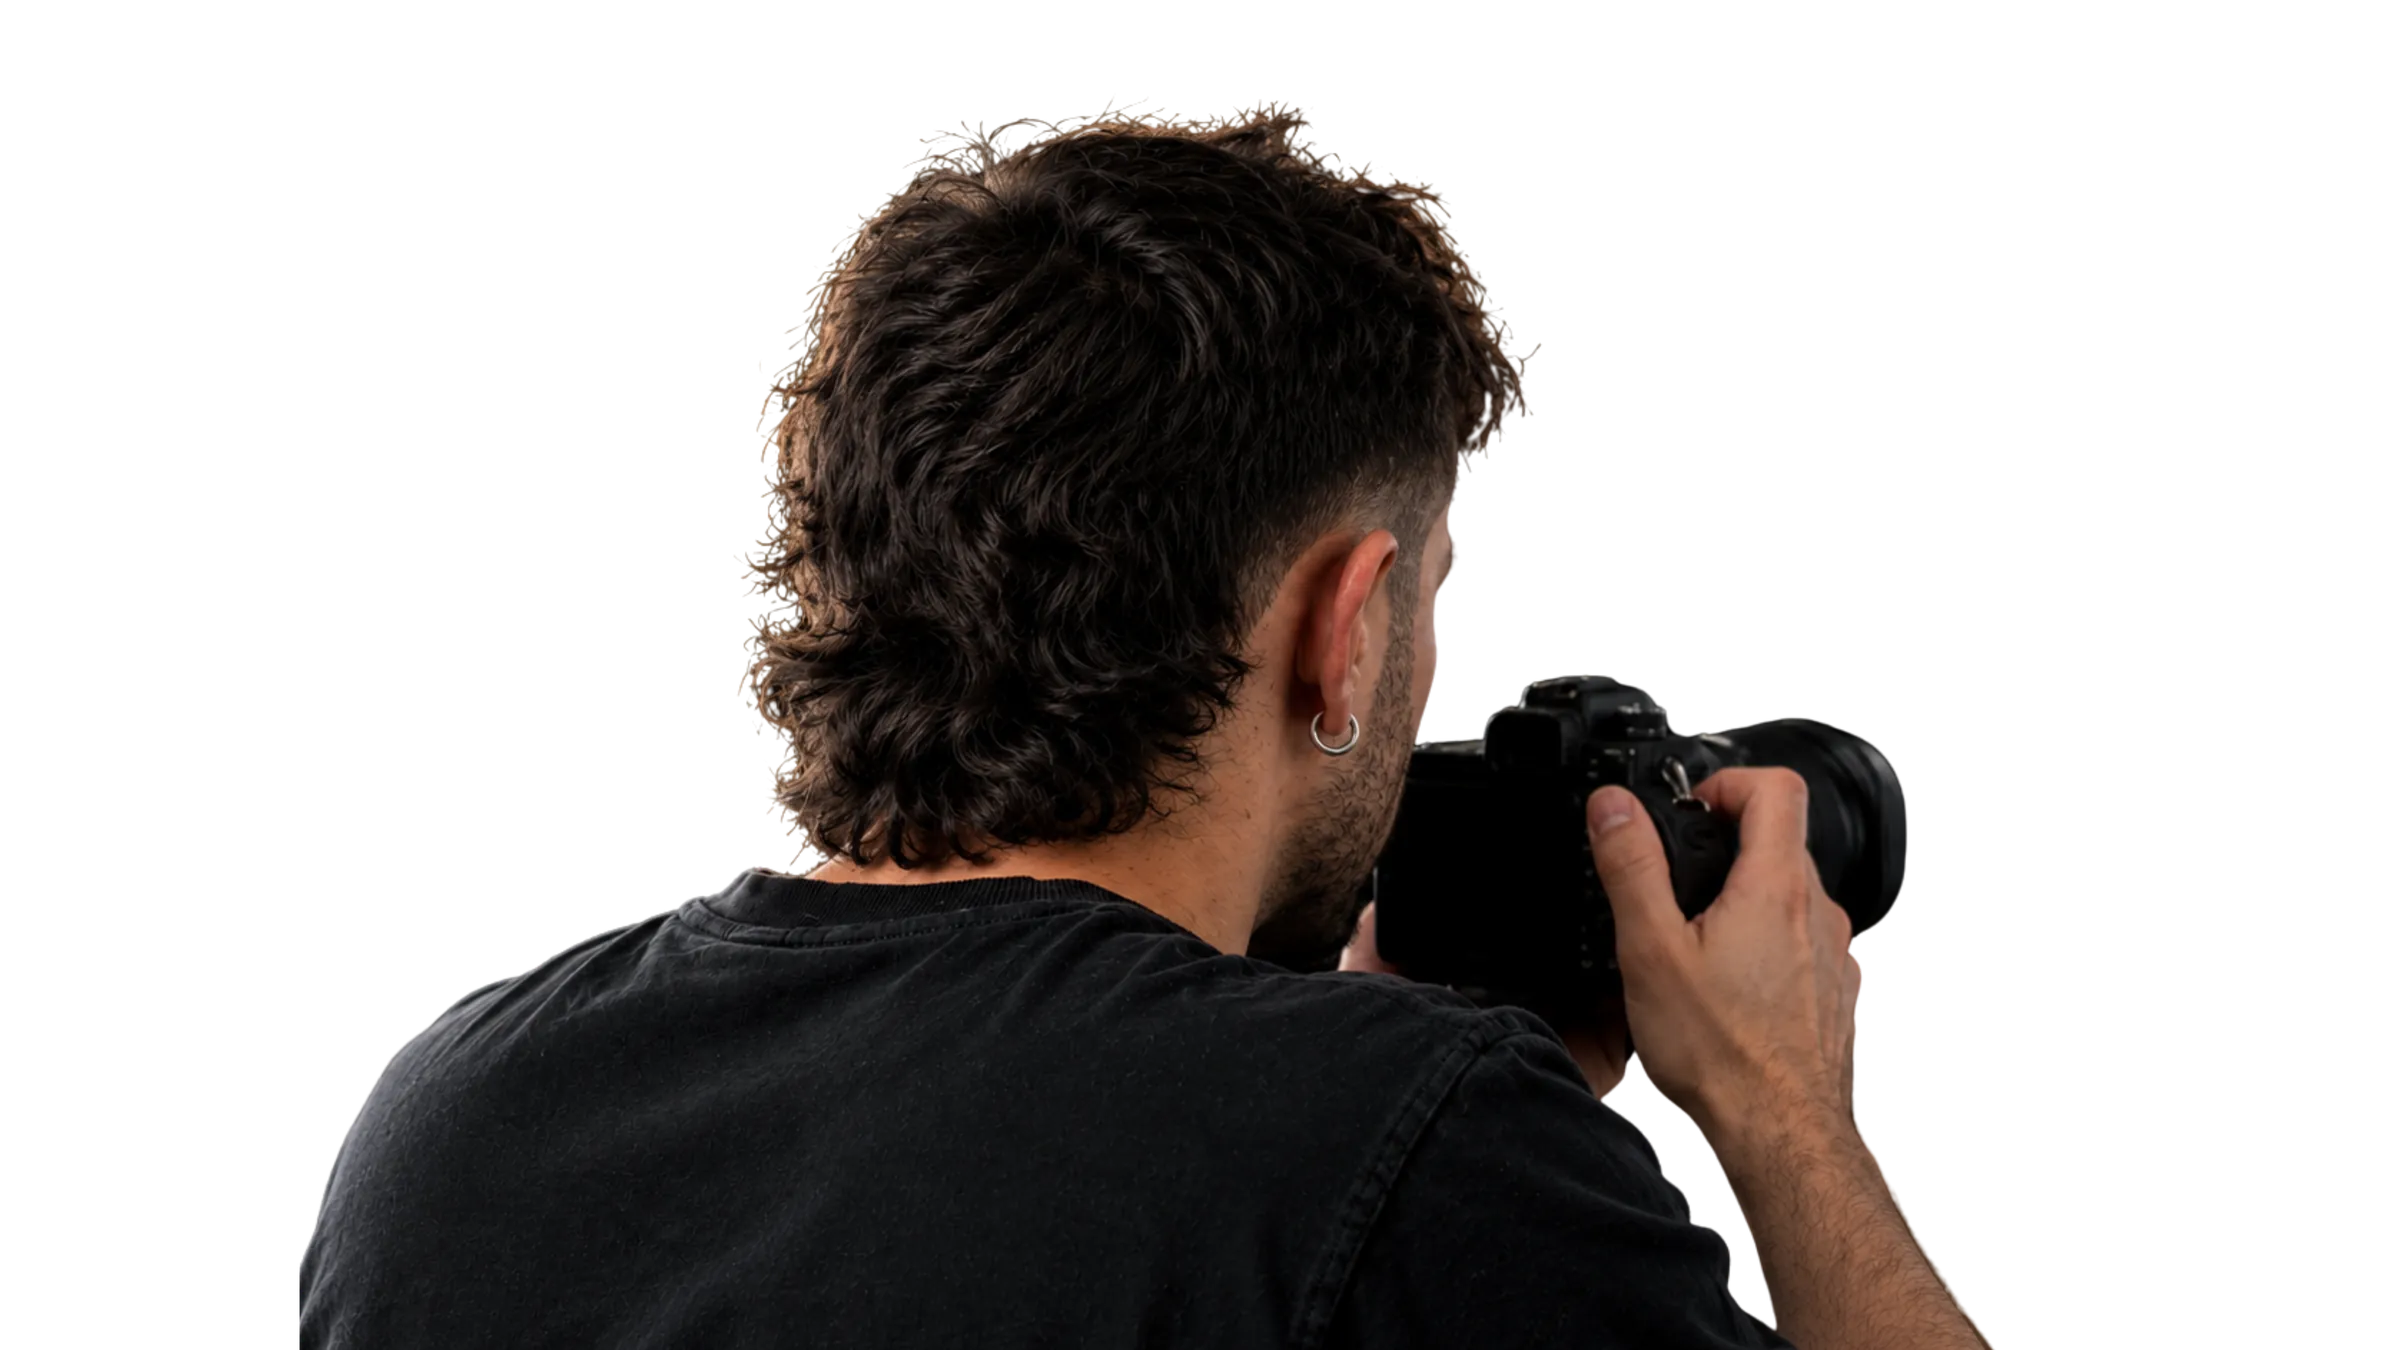
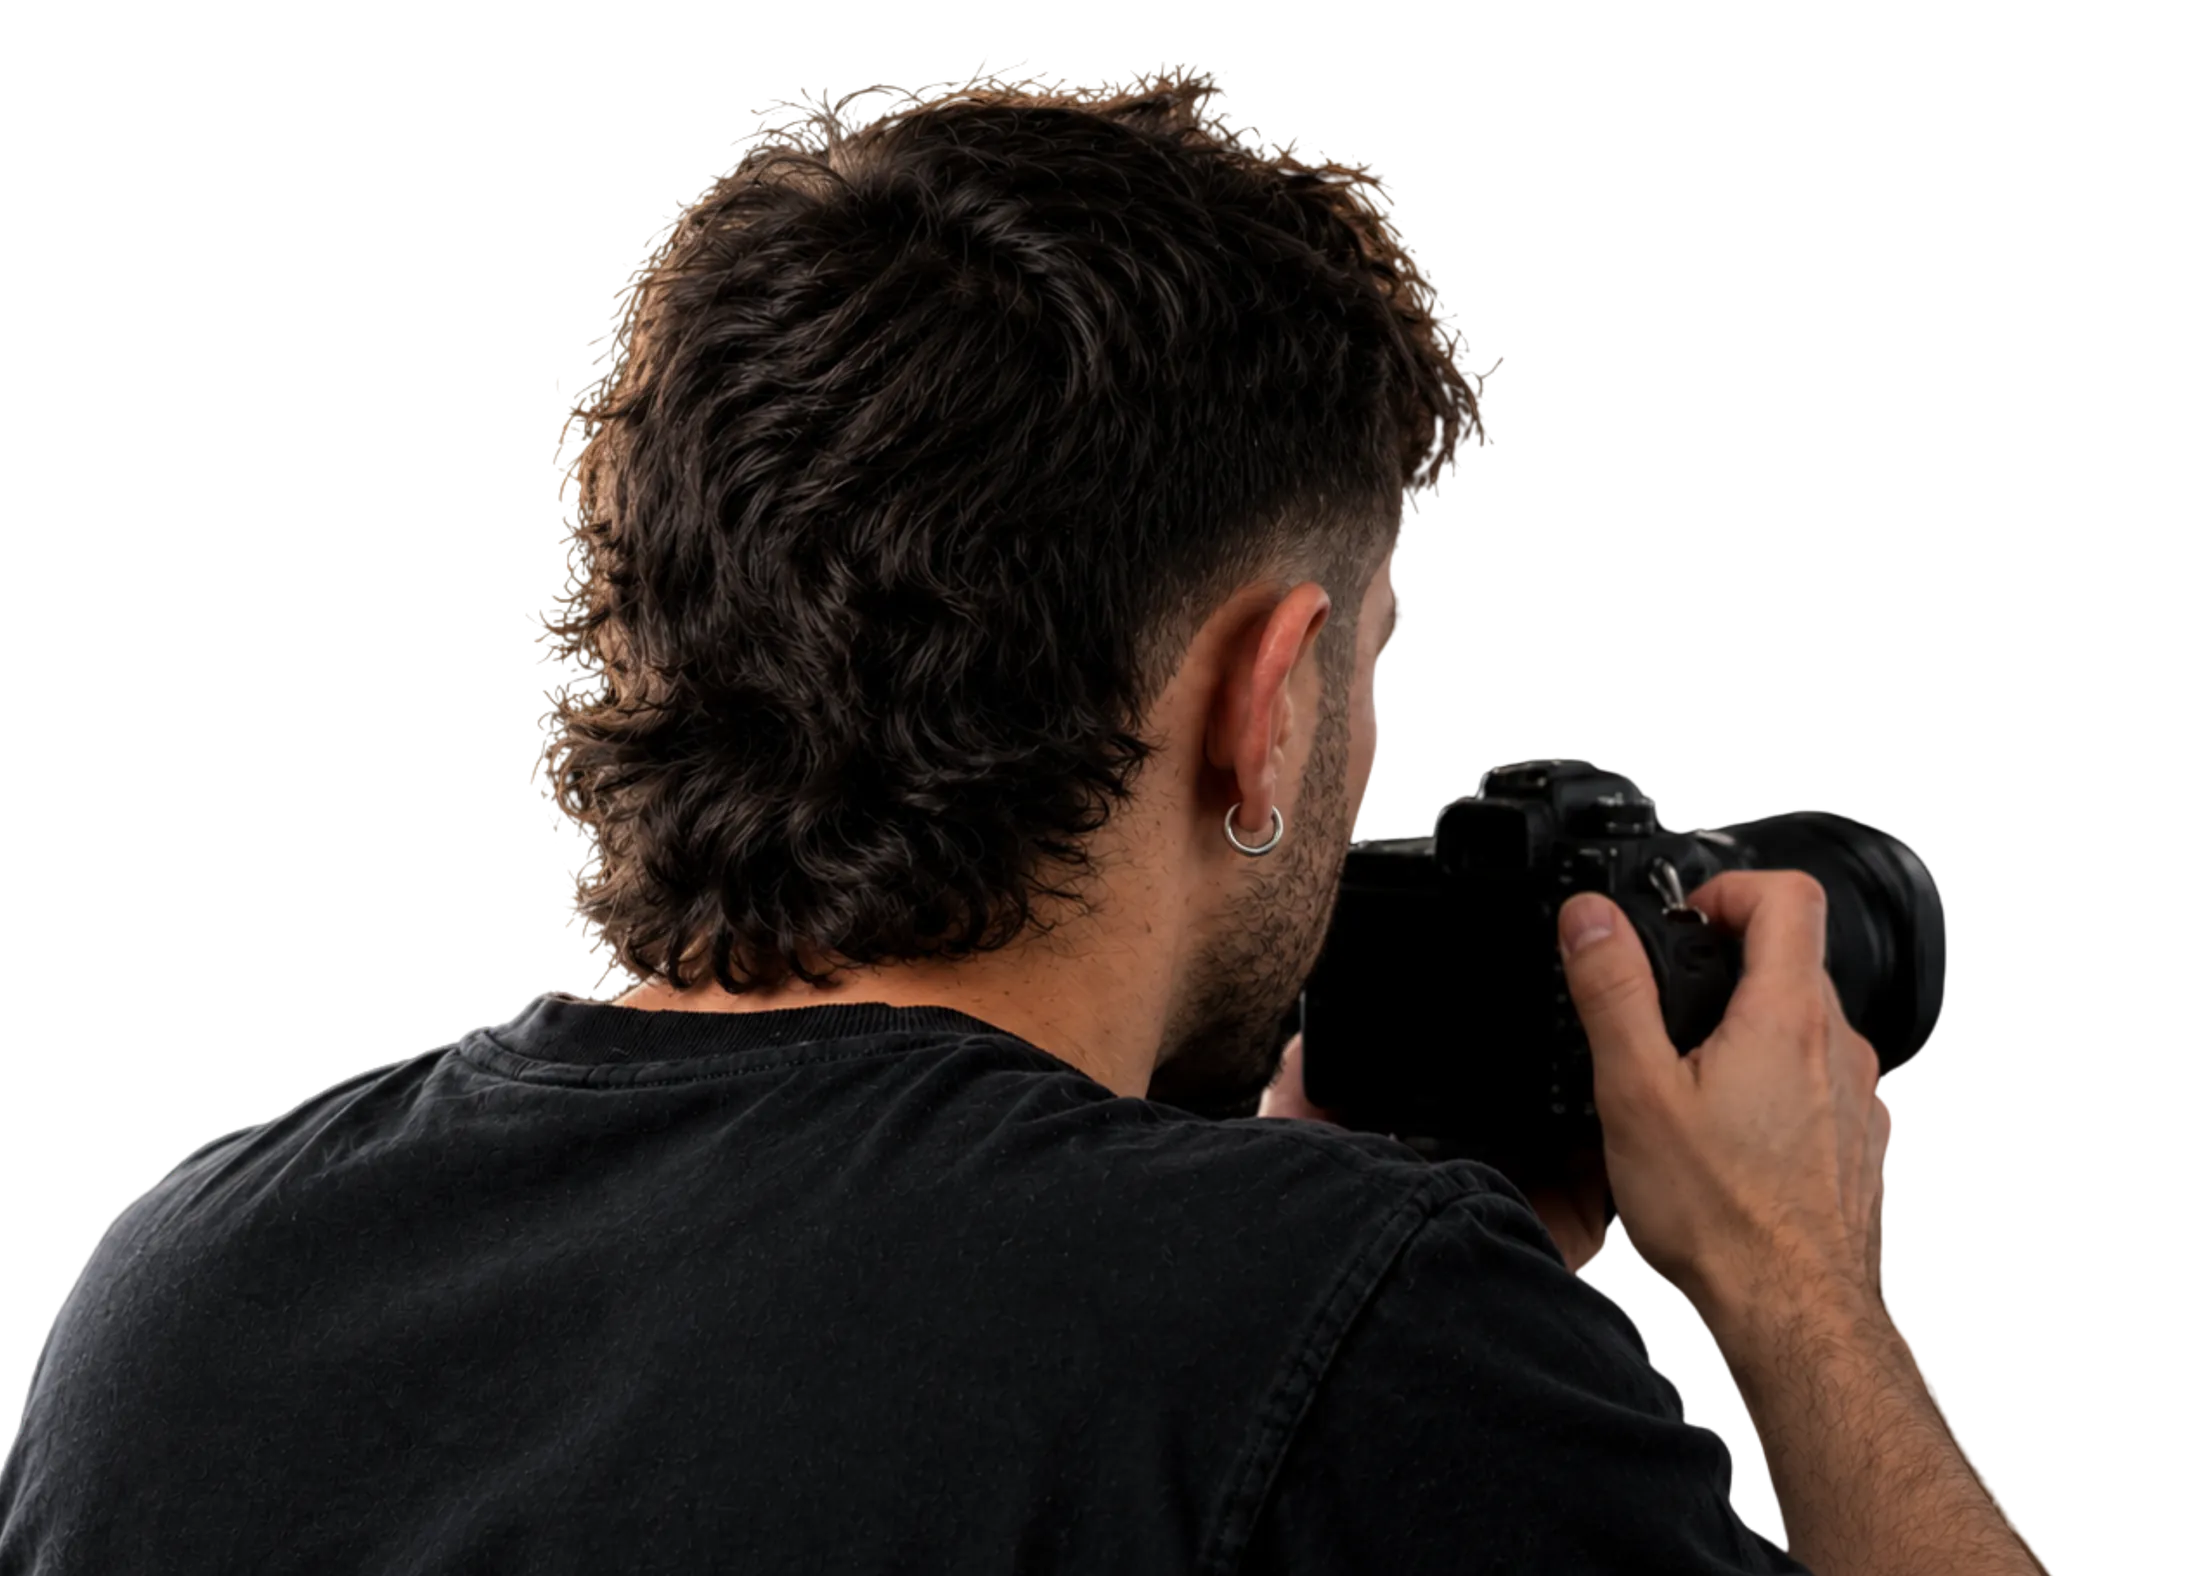
A figura do hero maior: enquadramento mais justo e caixa de 150%
Duas mudancas somadas. Os dois avatares foram reexportados cortados na
UNIAO das duas caixas de recorte, nao cada um na propria: cortar separado
deixaria as poses desalinhadas e a troca entre elas daria pulo. Com o
canvas justo some a faixa transparente que sobrava e o Allan passa a
ocupar o quadro inteiro.

Depois a caixa cresceu de 124% para 150% da altura da hero. Medi 124, 150,
175 e 200: a partir de 175 a cabeca sai pelo topo e o rosto encosta na
borda direita. As duas poses crescem juntas, pela mesma razao do
enquadramento comum.

No celular a conta e outra: descendo junto com o desktop a figura saia
pela borda de baixo e so o alto da cabeca aparecia, entao ali ela fica
mais alta.

Changed region(s): [[0.0, 0.0311, 0.9582, 1.0]]

diff --git a/index.html b/index.html
@@ -577,7 +577,7 @@
   /* o observador: ele e quem estava olhando o estudio ate agora */
   #obsv { position: absolute; inset: 0; z-index: 2; pointer-events: none;
     opacity: 0; will-change: transform, opacity; }
-  .obs-q { position: absolute; left: 0; right: 0; bottom: -34%; height: 124%;
+  .obs-q { position: absolute; left: 0; right: 0; bottom: -46%; height: 150%;
     opacity: 0; will-change: opacity;
     background-repeat: no-repeat; background-position: bottom center; background-size: contain;
     -webkit-mask-repeat: no-repeat; mask-repeat: no-repeat;
@@ -744,7 +744,9 @@
   .gal-item:hover img, .gal-item:focus-visible img { transform: scale(1.07); }
 
   @media (max-width: 899px) {
-    .obs-q { bottom: -6%; height: 72%; }
+    /* no celular a figura fica mais alta: descendo junto com o desktop
+       ela saia pela borda de baixo e so o alto da cabeca aparecia */
+    .obs-q { bottom: -7%; height: 84%; }
     .h1-bloco { margin-top: -6vh; }
     .pnt-acervo { padding: 10vh 16px 5vh; }
     .acv-canvas { width: min(64vh, 88vw); height: min(64vh, 88vw); }
